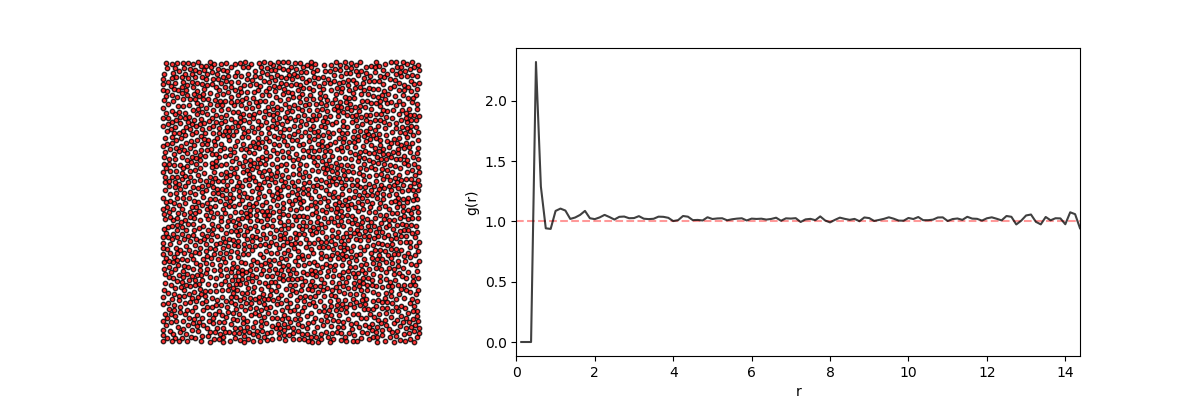
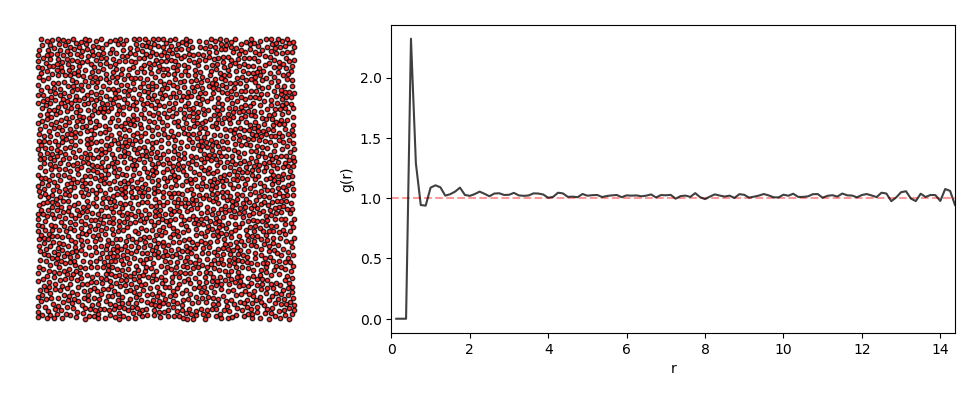
added rdf3d

diff --git a/rdfpy.py b/rdfpy.py
@@ -63,3 +63,47 @@ def rdf2d(particles, p_radius, h, w, n_radii=None, dr=None):
     
     g_r = np.sum(particles_individual_counts, axis=0)
     return g_r, radii
+
+
+def rdf3d(particles, p_radius, h, w, d, n_radii=None, dr=None):
+    centre_y, centre_x, centre_z = h / 2, w / 2, d / 2
+    min_x, max_x = np.min(particles[:, 0]), np.max(particles[:, 0])
+    min_y, max_y = np.min(particles[:, 1]), np.max(particles[:, 1])
+    min_z, max_z = np.min(particles[:, 2]), np.max(particles[:, 2])
+
+    r_max = (np.min([h, w, d]) / 2) - 2*p_radius
+
+    if n_radii and not dr:
+        radii = np.linspace(0.0, r_max, n_radii)
+        dr = radii[1] - radii[0]
+        radii = radii + dr
+    elif dr and not n_radii:
+        radii = np.arange(dr, r_max, dr)
+    elif n_radii is not None and dr is not None:
+        raise ValueError('Arguments n_radii and dr should not both be specified.')
+    
+    particles_individual_counts = np.zeros(shape=(len(particles), len(radii)))
+    
+    N = len(particles)
+    number_density = N / (h*w*d)
+    
+    for r_idx, r in enumerate(radii):
+        valid_idxs = ((particles[:, 0] - (r-p_radius) >= min_x) & (particles[:, 0] + (r-p_radius) <= max_x)) \
+                  & (((particles[:, 1] - (r-p_radius) >= min_y) & (particles[:, 1] + (r-p_radius) <= max_y))) \
+                  & (((particles[:, 2] - (r-p_radius) >= min_z) & (particles[:, 2] + (r-p_radius) <= max_z)))
+        valid_particles = particles[valid_idxs]
+        n_valid = len(valid_particles)
+        
+        for p_idx, particle in enumerate(valid_particles):
+            distances = np.linalg.norm(particle - particles, axis=1)
+            n = len(distances[(distances >= r) & (distances < r+dr)])
+            particles_individual_counts[p_idx, r_idx] = n
+
+        scaling_factor = 1 / (n_valid*4*np.pi*(r**2)*dr)
+        particles_individual_counts[:, r_idx] = particles_individual_counts[:, r_idx] * scaling_factor
+        print('{}/{}'.format(r_idx+1, len(radii)), end='\r', flush=True)
+
+    particles_individual_counts = particles_individual_counts / number_density
+    
+    g_r = np.sum(particles_individual_counts, axis=0)
+    return g_r, radii

diff --git a/examples/random2d.py b/examples/random2d.py
@@ -6,7 +6,7 @@ from rdfpy import rdf2d
 
 particles = np.load('./random2d.npy')
 
-g_r, radii, r_max = rdf2d(particles, p_radius=0.25, h=30, w=30, dr=0.125)
+g_r, radii = rdf2d(particles, p_radius=0.25, h=30, w=30, dr=0.125)
 
 
 fig, axes = plt.subplots(1, 2, figsize=(12, 4), gridspec_kw={'width_ratios': [1, 2]})
@@ -19,5 +19,5 @@ axes[1].hlines(y=1.0, xmin=0.0, xmax=max(radii), color='r', linestyle='--', alph
 axes[1].set_ylabel('g(r)')
 axes[1].set_xlabel('r')
 axes[1].set_xlim(0.0, max(radii))
-plt.savefig('./random2d.png')
-plt.show()
+plt.savefig('./random2d.png', bbox_inches='tight', pad_inches=0.25)
+# plt.show()
